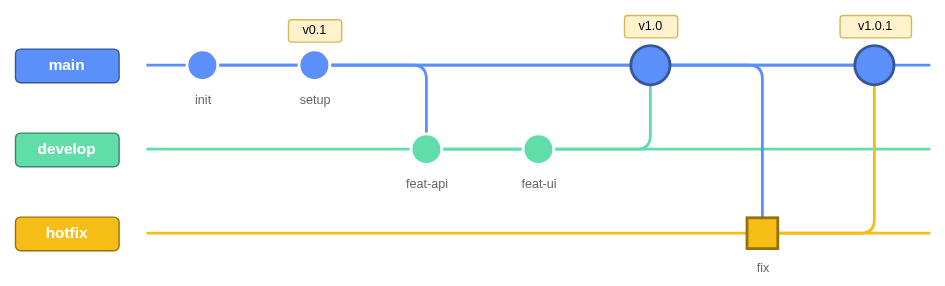
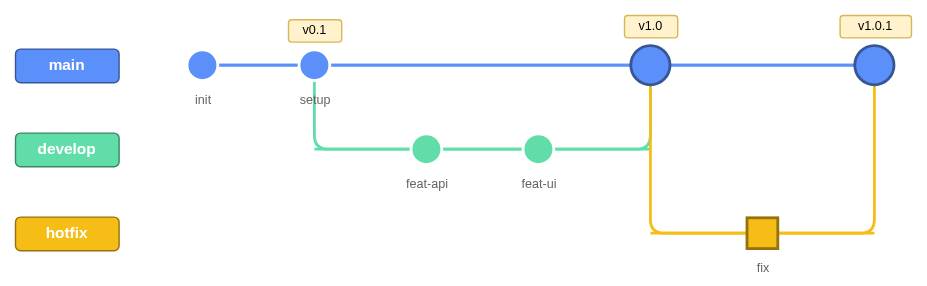
gitGraph: bound branch lines to their active range + fork at the parent
The full-width lane lines (added earlier to fix "develop/hotfix have no
line") over-corrected: every branch line ran the whole chart width, so a
branch looked like it existed from the first commit to the last — its lines
"came out" in the wrong places versus mermaid.

Now each branch's coloured line spans only its active interval: from its
fork point (the commit it branched off) to its last commit, or to the merge
commit that closes it. And a fork now drops straight down at the parent
commit before running along the new lane (mermaid's shape), instead of
running along the parent lane and turning at the child. Merges keep their
run-then-turn routing. Nested branches (a branch off a branch) and the merge
that reunites them are handled too.

Verified against mermaid.ink on both the README demo and a complex graph
(nested feature branch, cherry-pick, REVERSE/HIGHLIGHT). Regenerated
demo-git.png and re-blessed the gitgraph golden; updated the lane test.

diff --git a/tool/src/gitgraph-to-drawio.js b/tool/src/gitgraph-to-drawio.js
@@ -173,25 +173,44 @@ export function gitGraphToDrawio(mermaidSource, opts = {}) {
     );
   });
 
-  // Full-width lane lines: mermaid draws every branch line across the whole
-  // chart, so lanes read as continuous even where a branch has few commits.
-  const xEnd = x0 + model.commits.length * PITCH_X;
+  // First commit of each branch — used to find fork points.
+  const firstOfBranch = new Map();
+  for (const c of model.commits) if (!firstOfBranch.has(c.branch)) firstOfBranch.set(c.branch, c);
+
+  // Per-branch lane lines span only the branch's ACTIVE range: from its fork
+  // point (the parent commit it branched off) to its last commit or the merge
+  // that closes it. Mermaid draws the coloured branch line over that interval,
+  // not across the whole chart — a full-width line wrongly implies the branch
+  // existed before it was created and after it was merged.
   model.branches.forEach((b, i) => {
+    const onB = model.commits.filter((c) => c.branch === b.name);
+    if (onB.length === 0) return;
+    const first = onB[0];
+    const last = onB[onB.length - 1];
+    const forkParent = first.parents[0] ? byId.get(first.parents[0]) : null;
+    const isBase = !forkParent || forkParent.branch === b.name;
+    let startX = isBase ? cx(first) : cx(forkParent);
+    let endX = cx(last);
+    for (const m of model.commits) {
+      if (m.type === "MERGE" && byId.get(m.parents[1])?.branch === b.name) endX = Math.max(endX, cx(m));
+    }
     const y = MARGIN + i * PITCH_Y + PITCH_Y / 2;
     cells.push(
       `<mxCell id="gg-lane-${i}" value="" style="endArrow=none;html=1;strokeWidth=2;strokeColor=${laneColor(b.name)};" edge="1" parent="1">` +
         `<mxGeometry relative="1" as="geometry">` +
-        `<mxPoint x="${round(x0)}" y="${round(y)}" as="sourcePoint" />` +
-        `<mxPoint x="${round(xEnd)}" y="${round(y)}" as="targetPoint" />` +
+        `<mxPoint x="${round(startX)}" y="${round(y)}" as="sourcePoint" />` +
+        `<mxPoint x="${round(endX)}" y="${round(y)}" as="targetPoint" />` +
         `</mxGeometry>` +
         `</mxCell>`
     );
   });
 
-  // Parent edges next (still behind dots). Cross-lane edges bend at the child's x.
+  // Parent edges next (still behind dots). A branch FORK drops at the parent's
+  // x then runs along the child lane (like mermaid); a MERGE/other cross-lane
+  // edge runs along the parent lane then turns at the child's x.
   let ei = 0;
   for (const c of model.commits) {
-    for (const pid of c.parents) {
+    for (const [pi, pid] of c.parents.entries()) {
       const p = byId.get(pid);
       if (!p) continue;
       const x1 = cx(p);
@@ -199,8 +218,20 @@ export function gitGraphToDrawio(mermaidSource, opts = {}) {
       const x2 = cx(c);
       const y2 = cy(c);
       const dashed = c.type === "CHERRY_PICK" && pid === c.parents[1] ? "dashed=1;" : "";
-      const color = laneColor(y1 === y2 ? c.branch : p.branch);
-      const bend = y1 === y2 ? "" : `<Array as="points"><mxPoint x="${round(x2)}" y="${round(y1)}" /></Array>`;
+      const isFork = pi === 0 && p.branch !== c.branch && firstOfBranch.get(c.branch)?.id === c.id;
+      let bend = "";
+      let color;
+      if (y1 === y2) {
+        color = laneColor(c.branch);
+      } else if (isFork) {
+        // Drop straight down at the parent, then run right on the new lane.
+        bend = `<Array as="points"><mxPoint x="${round(x1)}" y="${round(y2)}" /></Array>`;
+        color = laneColor(c.branch);
+      } else {
+        // Run along the parent lane, then turn up/down at the child's x.
+        bend = `<Array as="points"><mxPoint x="${round(x2)}" y="${round(y1)}" /></Array>`;
+        color = laneColor(p.branch);
+      }
       cells.push(
         `<mxCell id="gg-e-${ei++}" value="" style="endArrow=none;html=1;rounded=1;strokeWidth=2;strokeColor=${color};${dashed}" edge="1" parent="1">` +
           `<mxGeometry relative="1" as="geometry">` +

diff --git a/tool/test/struct-kinds.test.js b/tool/test/struct-kinds.test.js
@@ -172,21 +172,25 @@ test("convertMermaidToDrawio routes all new kinds natively", async () => {
   }
 });
 
-test("gitGraph: every branch gets a full-width lane line", () => {
+test("gitGraph: a branch lane line is bounded to its active range, not full-width", () => {
   const { xml } = gitGraphToDrawio(`gitGraph
   commit id: "a"
+  commit id: "a2"
   branch dev
   commit id: "b"
   checkout main
   commit id: "c"
-  branch hotfix
-  commit id: "d"
 `);
-  assert.equal((xml.match(/gg-lane-/g) || []).length, 3);
-  // The hotfix lane spans at least as far right as the last commit's dot.
-  const lane = xml.match(/id="gg-lane-2".*?<mxPoint x="(\d+)" y="\d+" as="targetPoint"/s);
-  const lastDot = xml.match(/id="gg-c-3".*?<mxGeometry x="(\d+)"/s);
-  assert.ok(+lane[1] >= +lastDot[1], "lane extends past the last commit");
+  const laneSpan = (i) => {
+    const m = xml.match(new RegExp(`id="gg-lane-${i}"[\\s\\S]*?<mxPoint x="(\\d+)"[^>]*as="sourcePoint"[^>]*/>\\s*<mxPoint x="(\\d+)"[^>]*as="targetPoint"`));
+    return m ? [+m[1], +m[2]] : null;
+  };
+  const main = laneSpan(0);
+  const dev = laneSpan(1); // dev forks from a2 and is never merged
+  // dev starts at its fork point (a2), not at the chart's left edge (main's start = a).
+  assert.ok(dev[0] > main[0], `dev starts right of main (dev ${dev[0]} vs main ${main[0]})`);
+  // Unmerged dev ends around its last commit (b), before main's end (c).
+  assert.ok(dev[1] < main[1], `unmerged dev ends before main (dev ${dev[1]} vs main ${main[1]})`);
 });
 
 test("C4: SystemDb type annotation says System Db", () => {